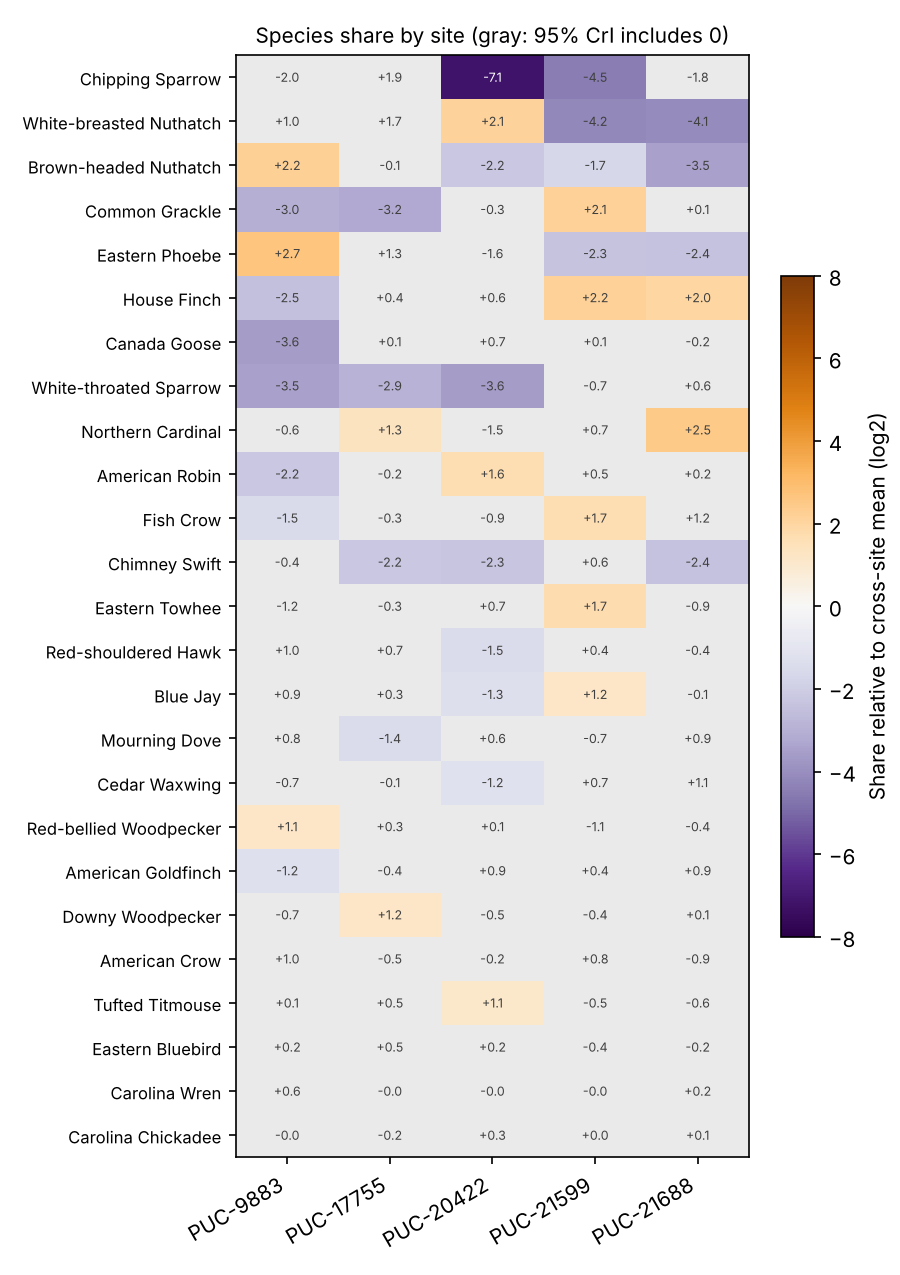
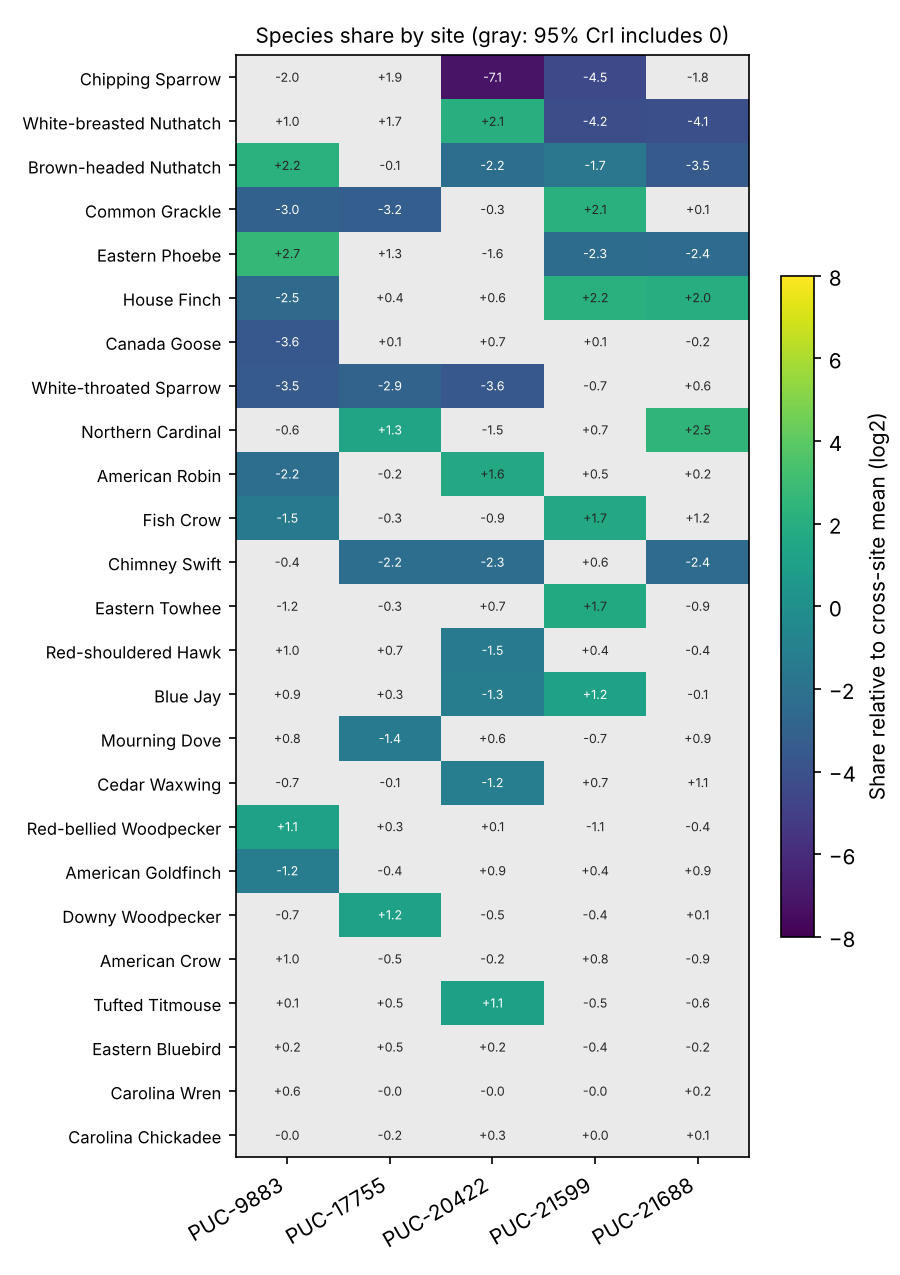
Use viridis for the species share heatmap

diff --git a/scripts/site_compare.py b/scripts/site_compare.py
@@ -355,14 +355,14 @@ def plot(stations, g, n_active, u, sp_names, bslope, pooled, raw):
     sig = (u[1] > 0) | (u[2] < 0)
     order = np.argsort(med.max(1) - med.min(1))[::-1]
     lim = np.ceil(np.nanmax(np.abs(med)))
-    cmap = plt.get_cmap("PuOr_r").copy()
+    cmap = plt.get_cmap("viridis").copy()
     cmap.set_bad("0.92")
     fig, ax = plt.subplots(figsize=(6, 0.28 * J + 1.5))
     im = ax.imshow(np.ma.masked_where(~sig, med)[order], cmap=cmap, vmin=-lim, vmax=lim, aspect="auto")
     for i, j in enumerate(order):
         for s in range(S):
             ax.text(s, i, f"{med[j, s]:+.1f}", ha="center", va="center", fontsize=6,
-                    color="white" if sig[j, s] and abs(med[j, s]) > 0.6 * lim else "0.25")
+                    color="white" if sig[j, s] and med[j, s] < 0.2 * lim else "0.15")
     ax.set_xticks(range(S), [f"PUC-{l}" for l in lab], rotation=30, ha="right")
     ax.set_yticks(range(J), [sp_names[i] for i in order], fontsize=8)
     cb = fig.colorbar(im, ax=ax, shrink=0.6)
